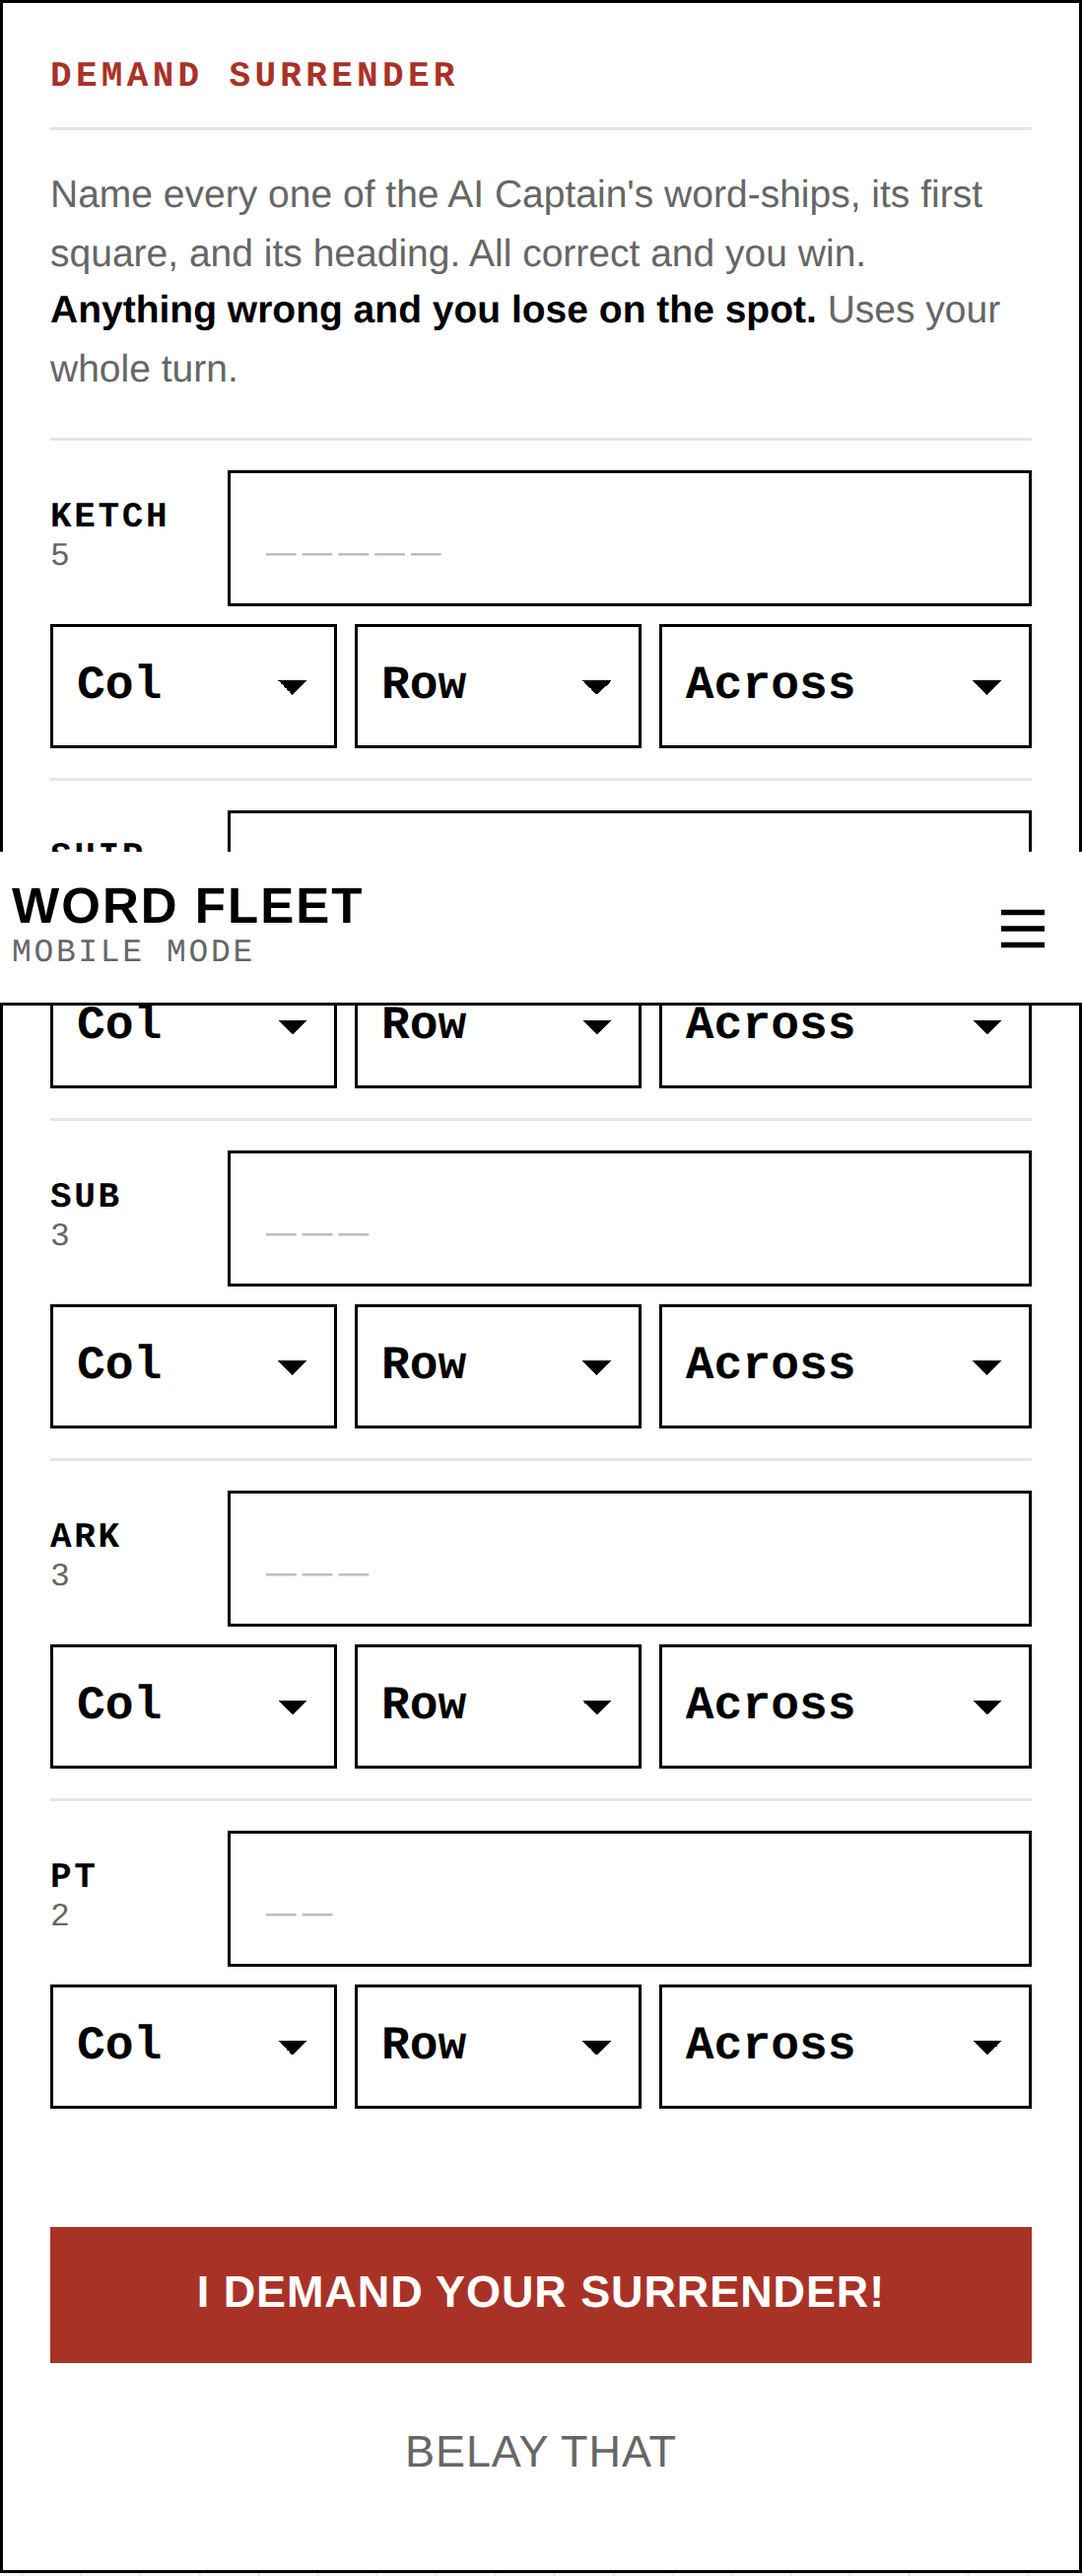
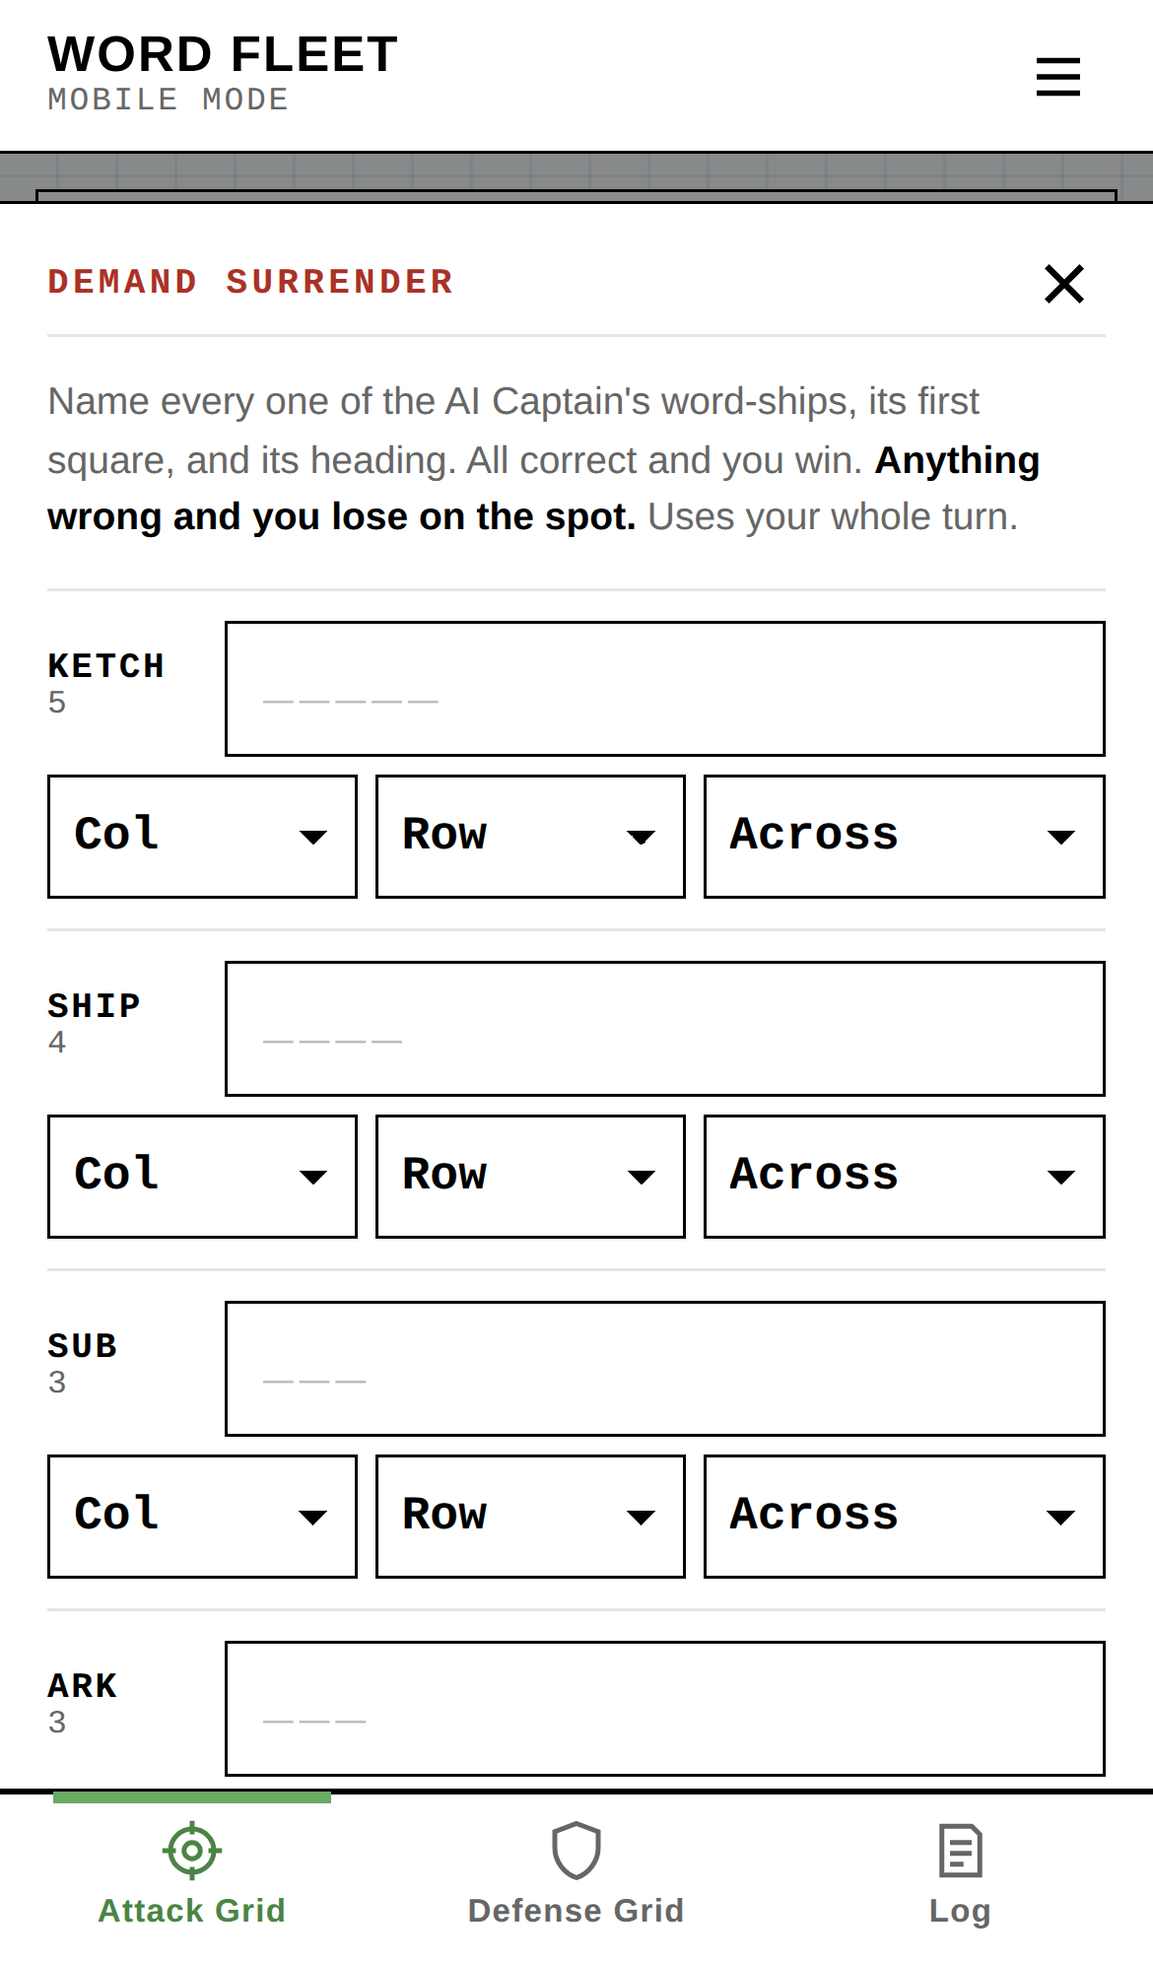
Attack tab: manifest above the grid; the turn panel is always a popup (your turn, call result, AI's turn, Demand Surrender)
Claude-Session: https://claude.ai/code/session_013sUGAAEC45a1EJCrQWVj9Q

Changed region(s): [[0.0, 0.1867, 1.0, 1.0], [0.0, 0.0, 1.0, 0.3424]]

diff --git a/mobile/app.js b/mobile/app.js
@@ -354,6 +354,7 @@
     else if (current === 'battle') renderBattle();
     else if (current === 'over') renderOver();
     applyFleetColors();
+    refreshPanel();
     fitButtons();
   }
 
@@ -402,12 +403,14 @@
     $('sheet').hidden = false;
     $('sheet').scrollTop = 0;
     fitButtons();
+    refreshPanel();
   }
   function closeSheet() {
     $('sheet').setAttribute('data-screen', '');
     $('scrim').hidden = true;
     $('sheet').hidden = true;
     $('sheetBody').innerHTML = '';
+    refreshPanel();
   }
 
   // ------------------------------------------------------------
@@ -732,22 +735,48 @@
     var fp = $('firePanel');
     var found = bullCount(S.myShots);
     var demandBtn = '<button class="btn btn--danger btn--wide" type="button" data-act="demand">Demand Surrender</button>';
+    var pkey, dismissible;
     if (ui.demand && mine) {
+      pkey = 'demand'; dismissible = true;
       fp.innerHTML = demandForm();
     } else if (S.result) {
+      pkey = 'result:' + S.log.length + (S.result.bonus ? ':bonus' : '');
+      dismissible = !!S.result.bonus;   // a bonus turn means tapping the grid next
       fp.innerHTML = '<div class="card-title">' + S.result.title + '</div>' + S.result.html +
         (S.result.solve ? solveBox() : '') +
         (S.result.bonus ? '<p class="hint" style="margin-bottom:6px">Tap another square on the Attack Grid to take your bonus turn.</p>' + demandBtn
                         : mine ? '<button class="btn btn--primary btn--wide" type="button" data-act="endTurn">End Turn</button>'
                                : '<p class="waiting">AI Captain is choosing a square\u2026</p>');
     } else if (!mine) {
+      pkey = 'wait'; dismissible = false;
       fp.innerHTML = '<p class="waiting">AI Captain is choosing a square\u2026</p>';
     } else {
+      pkey = 'turn:' + S.log.length; dismissible = true;   // a new key every move, so each turn pops up once
       fp.innerHTML = '<div class="card-title">Your Turn &middot; ' + found + ' of ' + FLEET_CELLS + ' letters revealed</div>' +
         (S.notice ? '<p class="notice">' + S.notice + '</p>' : '') +
         '<p class="hint" style="margin-top:0">Tap a square on the Attack Grid, then call a letter. Every square holding it is revealed. If it\'s in the square you picked, you get a <strong>bonus turn</strong>. Vowels cost your next turn.</p>' +
-        demandBtn;
+        demandBtn +
+        '<button class="btn btn--primary btn--wide" type="button" data-act="panelOk">To the Attack Grid</button>';
     }
+    ui.panelKey = pkey; ui.panelDismissible = dismissible;
+    refreshPanel();
+  }
+
+  // The turn panel is always a popup over the Attack Grid. It stays shut once closed until something new
+  // happens (a new key), and steps aside while the letter picker or menu is open.
+  function refreshPanel() {
+    var show = current === 'battle' && S && S.phase === 'battle' && ui.tab === 'Attack' &&
+      ui.panelKey && ui.panelKey !== ui.panelClosed && $('sheet').hidden;
+    $('panelSheet').hidden = !show;
+    $('panelScrim').hidden = !show;
+    $('panelClose').hidden = !ui.panelDismissible;
+    $('panelSheet').setAttribute('data-screen', ui.panelKey === 'demand' ? '009-MOBILE-SURRENDER' : '005-MOBILE-ATTACK-POPUP');
+    if (show) fitButtons($('panelSheet'));
+  }
+  function closePanel() {
+    if (!ui.panelDismissible) return;
+    if (ui.panelKey === 'demand') { ui.demand = false; ui.panelClosed = null; renderAttack(); return; }
+    ui.panelClosed = ui.panelKey; refreshPanel();
   }
 
   function renderDefense() {
@@ -814,6 +843,7 @@
   function switchTab(tab) {
     ui.tab = tab;
     renderBattle();
+    refreshPanel();
     window.scrollTo(0, 0);
   }
 
@@ -1213,6 +1243,7 @@
       (ui.installEvt ? '<button class="btn btn--wide" type="button" data-act="install">Install Word Fleet</button>' : '') +
       '<a class="btn btn--wide" href="https://thegamebureau.com/wordfleet/">Home Port</a>' +
       '<a class="btn btn--wide" href="https://thegamebureau.com/">By The Game Bureau</a>' +
+      (S && S.phase === 'battle' && S.turn === 'me' && !S.result ? '<button class="btn btn--danger btn--wide" type="button" data-act="menuDemand">Demand Surrender</button>' : '') +
       (live ? '<button class="btn btn--danger btn--wide" type="button" data-act="abandon">Abandon Battle</button>' : '') +
       (window.WFAudio ? '<div class="switches">' +
         '<label class="switch-row"><span>Sound Effects</span><input type="checkbox" class="switch" data-audio="sfx"' + (window.WFAudio.sfxOn() ? ' checked' : '') + '></label>' +
@@ -1420,7 +1451,8 @@
     var b = e.target.closest('[data-act]');
     if (!b) return;
     var act = b.getAttribute('data-act');
-    if (act === 'demand') { ui.demand = true; renderAttack(); $('firePanel').scrollIntoView({ block: 'start', behavior: 'smooth' }); }
+    if (act === 'demand') { ui.demand = true; renderAttack(); $('panelSheet').scrollTop = 0; }
+    else if (act === 'panelOk') closePanel();
     else if (act === 'belay') { ui.demand = false; renderAttack(); }
     else if (act === 'endTurn') endMyTurn();
     else if (act === 'solve') humanSolve();
@@ -1449,6 +1481,8 @@
 
   // sheet
   on($('scrim'), 'click', function () { if (sheetDismissible) closeSheet(); });
+  on($('panelScrim'), 'click', closePanel);
+  on($('panelClose'), 'click', closePanel);
   on($('sheetBody'), 'click', function (e) {
     var k = e.target.closest('[data-letter]');
     if (k) { humanCall(k.getAttribute('data-letter')); return; }
@@ -1457,6 +1491,7 @@
     var act = b.getAttribute('data-act');
     if (act === 'close') { closeSheet(); if (ui.sel && current === 'battle') { ui.sel = null; renderAttack(); } }
     else if (act === 'rules') openRules();
+    else if (act === 'menuDemand') { closeSheet(); ui.demand = true; ui.panelClosed = null; switchTab('Attack'); }
     else if (act === 'home') { closeSheet(); show('home'); }
     else if (act === 'newBattle') { if (newBattle()) closeSheet(); }
     else if (act === 'abandon') {

diff --git a/mobile/index.html b/mobile/index.html
@@ -18,7 +18,7 @@
   <link rel="preconnect" href="https://fonts.gstatic.com" crossorigin>
   <link href="https://fonts.googleapis.com/css2?family=Courier+Prime:wght@400;700&family=Inter:wght@400;500;600;700&display=swap" rel="stylesheet">
   <!-- Bump ?v= on every release (and CACHE in sw.js) so a new page never runs old code. -->
-  <link rel="stylesheet" href="app.css?v=91">
+  <link rel="stylesheet" href="app.css?v=92">
 </head>
 <body>
 
@@ -148,6 +148,10 @@
     <!-- ============ 005-MOBILE-ATTACK (screen name: "005-MOBILE-ATTACK") ============ -->
     <!-- Tapping a square opens 006-MOBILE-CALL-LETTER; "Demand Surrender" turns the panel below into 009-MOBILE-SURRENDER. -->
     <div class="tab" id="tabAttack" data-screen="005-MOBILE-ATTACK">
+      <div class="card card--manifest card--manifest-top">
+        <div class="card-title">Attack Manifest</div>
+        <div class="manifest" id="attackManifest"></div>
+      </div>
       <div class="gridbanner is-attack">
         <div><b>ATTACK GRID</b><span>Hunting the AI Captain's fleet</span></div>
         <span class="bubbles" id="bubbles"></span>
@@ -155,11 +159,6 @@
       <div class="card card--flush card--attack">
         <div class="grid" id="gridAttack"></div>
       </div>
-      <div class="card card--manifest">
-        <div class="card-title">Attack Manifest</div>
-        <div class="manifest" id="attackManifest"></div>
-      </div>
-      <div class="card" id="firePanel"></div>
     </div>
 
     <!-- ============ 007-MOBILE-DEFENSE (screen name: "007-MOBILE-DEFENSE") ============ -->
@@ -232,9 +231,17 @@
   <div class="sheet-body" id="sheetBody"></div>
 </div>
 
+<!-- ============ ATTACK POPUP: the Attack tab's turn panel (your turn, call result, AI's turn,
+     009-MOBILE-SURRENDER) always shows here, over the grid. Sits under the letter-picker sheet. ============ -->
+<div class="scrim scrim--panel" id="panelScrim" hidden></div>
+<div class="sheet sheet--panel" id="panelSheet" role="dialog" aria-modal="true" aria-label="Turn" hidden>
+  <button class="sheet-x" id="panelClose" type="button" aria-label="Close">&times;</button>
+  <div id="firePanel"></div>
+</div>
+
 <div class="toast" id="toast" hidden></div>
 
-<script src="audio.js?v=91"></script>
-<script src="app.js?v=91"></script>
+<script src="audio.js?v=92"></script>
+<script src="app.js?v=92"></script>
 </body>
 </html>

diff --git a/mobile/app.css b/mobile/app.css
@@ -580,3 +580,15 @@ button.mf { font: inherit; color: var(--ink); width: 100%; padding: 3px 0 2px; c
 .log-body { flex: 1; min-width: 0; }
 .log-who { margin-bottom: 4px; }
 .log-anchor { font-family: "Segoe UI Symbol", "Noto Sans Symbols", "DejaVu Sans", sans-serif; font-variant-emoji: text; }
+
+/* 005: Attack Manifest above the grid */
+.card--manifest-top + .gridbanner { margin-top: 12px; }
+/* The Attack tab's turn panel is a popup (under the letter-picker sheet, over the tab bar) */
+.scrim--panel { z-index: 30; }
+.sheet--panel { z-index: 31; padding-top: 18px; }
+.sheet--panel #firePanel { background: none; border: none; padding: 0; }
+.sheet-x { position: absolute; top: 6px; right: 8px; width: 44px; height: 44px; border: none; background: none; font-size: 30px; line-height: 1; cursor: pointer; color: var(--ink); }
+.sheet--panel .card-title { padding-right: 40px; }
+/* The popup sits between the top bar and the tab bar, so the menu and the tabs stay usable */
+.scrim--panel { top: calc(var(--bar-h) + var(--safe-t)); bottom: calc(var(--tab-h) + var(--safe-b)); }
+.sheet--panel { bottom: calc(var(--tab-h) + var(--safe-b)); max-height: calc(100vh - var(--bar-h) - var(--tab-h) - var(--safe-t) - var(--safe-b) - 16px); padding-bottom: 16px; border-bottom: 1px solid var(--ink); }

diff --git a/mobile/sw.js b/mobile/sw.js
@@ -1,11 +1,11 @@
 /* Word Fleet service worker: the whole game works offline once loaded. */
-var CACHE = 'wordfleet-v91';
+var CACHE = 'wordfleet-v92';
 var SHELL = [
   './',
   'index.html',
-  'app.css?v=91',
-  'app.js?v=91',
-  'audio.js?v=91',
+  'app.css?v=92',
+  'app.js?v=92',
+  'audio.js?v=92',
   'manifest.webmanifest',
   'icons/icon-180.png',
   'icons/icon-192.png',

diff --git a/mobile/screens/README.md b/mobile/screens/README.md
@@ -12,11 +12,11 @@ referred to by name when asking for changes. Each has a reference snapshot in th
 | **002-MOBILE-OPPONENT** | `<section id="scrOpponent" data-screen="002-MOBILE-OPPONENT">`, `SCREENS.opponent` | `002-mobile-opponent.png` | Header line: your flag and fleet name. Card title "Choose Your Opponent", section "Pick the AI Captain you'll face": 🦆 Rubber Duck, ⚓ Steady, 📖 Lexicon, each with a character sketch and five example words (5, 4, 3, 3, 2 letters) from that captain's tier of the chosen dictionary, never offensive. "NEXT: WORD-SHIPS" (50%), Back. |
 | **003-MOBILE-WORD-SHIPS** | `<section id="scrWords" data-screen="003-MOBILE-WORD-SHIPS">`, `SCREENS.words` | `003-mobile-word-ships.png` | Header line: your flag and fleet name. Card title "Build Your Word-Ships". "Allow possibly offensive words" switch ("Applies to both fleets."). Section "Check your five word-ships" with ↻ REFRESH ALL; "Tap any word to type your own." Each word has a ↻ redraw; a typed word is checked against the dictionary when its box loses focus, and all are checked on "NEXT: DEPLOY" (75%). Back. |
 | **004-MOBILE-DEPLOY** | `<section id="scrDeploy" data-screen="004-MOBILE-DEPLOY">`, `SCREENS.deploy` | `004-mobile-deploy.png` | Step 4 of 4 of Prepare for Battle, same look as 001-003; header line: your flag and fleet name. Card title "Deploy Your Fleet", then the Defense Grid dressed like the in-game one ("DEFENSE GRID PREVIEW" banner with your fleet name under it, in your fleet's colors from 001: color 1 behind, color 2 for the text, color 1 along the top edge). Opens with the five word-ships already deployed at random, in green; they never leave the grid. Section "Keep this layout or rearrange it" with ⇄ SHUFFLE (new random layout); drag a ship to move it, double-tap its first letter to turn it. "LET THE BATTLE BEGIN!" (progress bar full), Back. |
-| **005-MOBILE-ATTACK** | `<div id="tabAttack" data-screen="005-MOBILE-ATTACK">` in `#scrBattle` | `005-mobile-attack.png` | Battle, Attack Grid tab (no turn chip in the header; whose turn it is shows in the panel): banner in the AI Captain's Signal Orange & Black with the five ship circles, the Attack Grid, the Attack Manifest, and the panel below (your turn, the result of your call with Solve a Word and End Turn, or "AI Captain is choosing a square"). |
+| **005-MOBILE-ATTACK** | `<div id="tabAttack" data-screen="005-MOBILE-ATTACK">` in `#scrBattle`; popup `#panelSheet` | `005-mobile-attack.png`, `005-mobile-attack-popup.png` | Battle, Attack Grid tab: the Attack Manifest on top, then the Attack Grid under its Signal Orange banner with the five ship circles. No turn chip in the header. The turn panel is always a popup over the grid (between the top bar and the tab bar, which stay usable): your turn (with Demand Surrender and "To the Attack Grid"; closable), the result of your call (Solve a Word, End Turn; closable only on a bonus turn), "AI Captain is choosing a square…", and 009-MOBILE-SURRENDER. Each pops up once per move; once closed it stays shut until the next move. Demand Surrender is also in the ☰ menu during your turn. |
 | **006-MOBILE-CALL-LETTER** | sheet, `data-screen="006-MOBILE-CALL-LETTER"` | `006-mobile-call-letter.png` | Opens when you tap a hidden square: pick a letter to call (vowels marked −1 turn), or Cancel. |
 | **007-MOBILE-DEFENSE** | `<div id="tabDefense" data-screen="007-MOBILE-DEFENSE">` | `007-mobile-defense.png` | Battle, Defense Grid tab: banner in your fleet colors with your fleet name; incoming report, your fleet with the AI Captain's picks, the Defense Manifest. |
 | **008-MOBILE-LOG** | `<div id="tabLog" data-screen="008-MOBILE-LOG">` | `008-mobile-log.png` | Battle, Log tab: small "CAPTAIN'S LOG" then your flag and fleet name, as on the Prepare screens. Below, newest on top, a plain list with an ⚓ bullet on every entry; your moves and the AI Captain's show that side's flag and fleet name, Fleet Command notices are just the text. |
-| **009-MOBILE-SURRENDER** | Attack panel in Demand Surrender mode, `data-screen="009-MOBILE-SURRENDER"` | `009-mobile-surrender.png` | Name every AI word-ship, its first square and heading; "I Demand Your Surrender!" asks once more before it counts. |
+| **009-MOBILE-SURRENDER** | the Attack popup in Demand Surrender mode, `#panelSheet[data-screen="009-MOBILE-SURRENDER"]` | `009-mobile-surrender.png` | Name every AI word-ship, its first square and heading; "I Demand Your Surrender!" asks once more before it counts. |
 | **010-MOBILE-GAME-OVER** | `<section id="scrOver" data-screen="010-MOBILE-GAME-OVER">`, `SCREENS.over` | `010-mobile-game-over.png` | Result (no chip in the header), stats, New Battle, and both fleets revealed, each with its flag: the AI Captain's fixed Signal Orange & Black (`FOE_SCHEME`, bright background with dark text, the reverse of every player scheme) and yours in your scheme. |
 | **MOBILE-MENU** *(any screen)* | sheet, `data-screen="MOBILE-MENU"` | `mobile-menu.png` | The ☰ menu: New Battle, Rules of Engagement, Home Port, By The Game Bureau, Abandon Battle, Sound Effects and Music switches. |
 | **MOBILE-RULES** *(any screen)* | sheet, `data-screen="MOBILE-RULES"` | `mobile-rules.png` | Rules of Engagement. |
